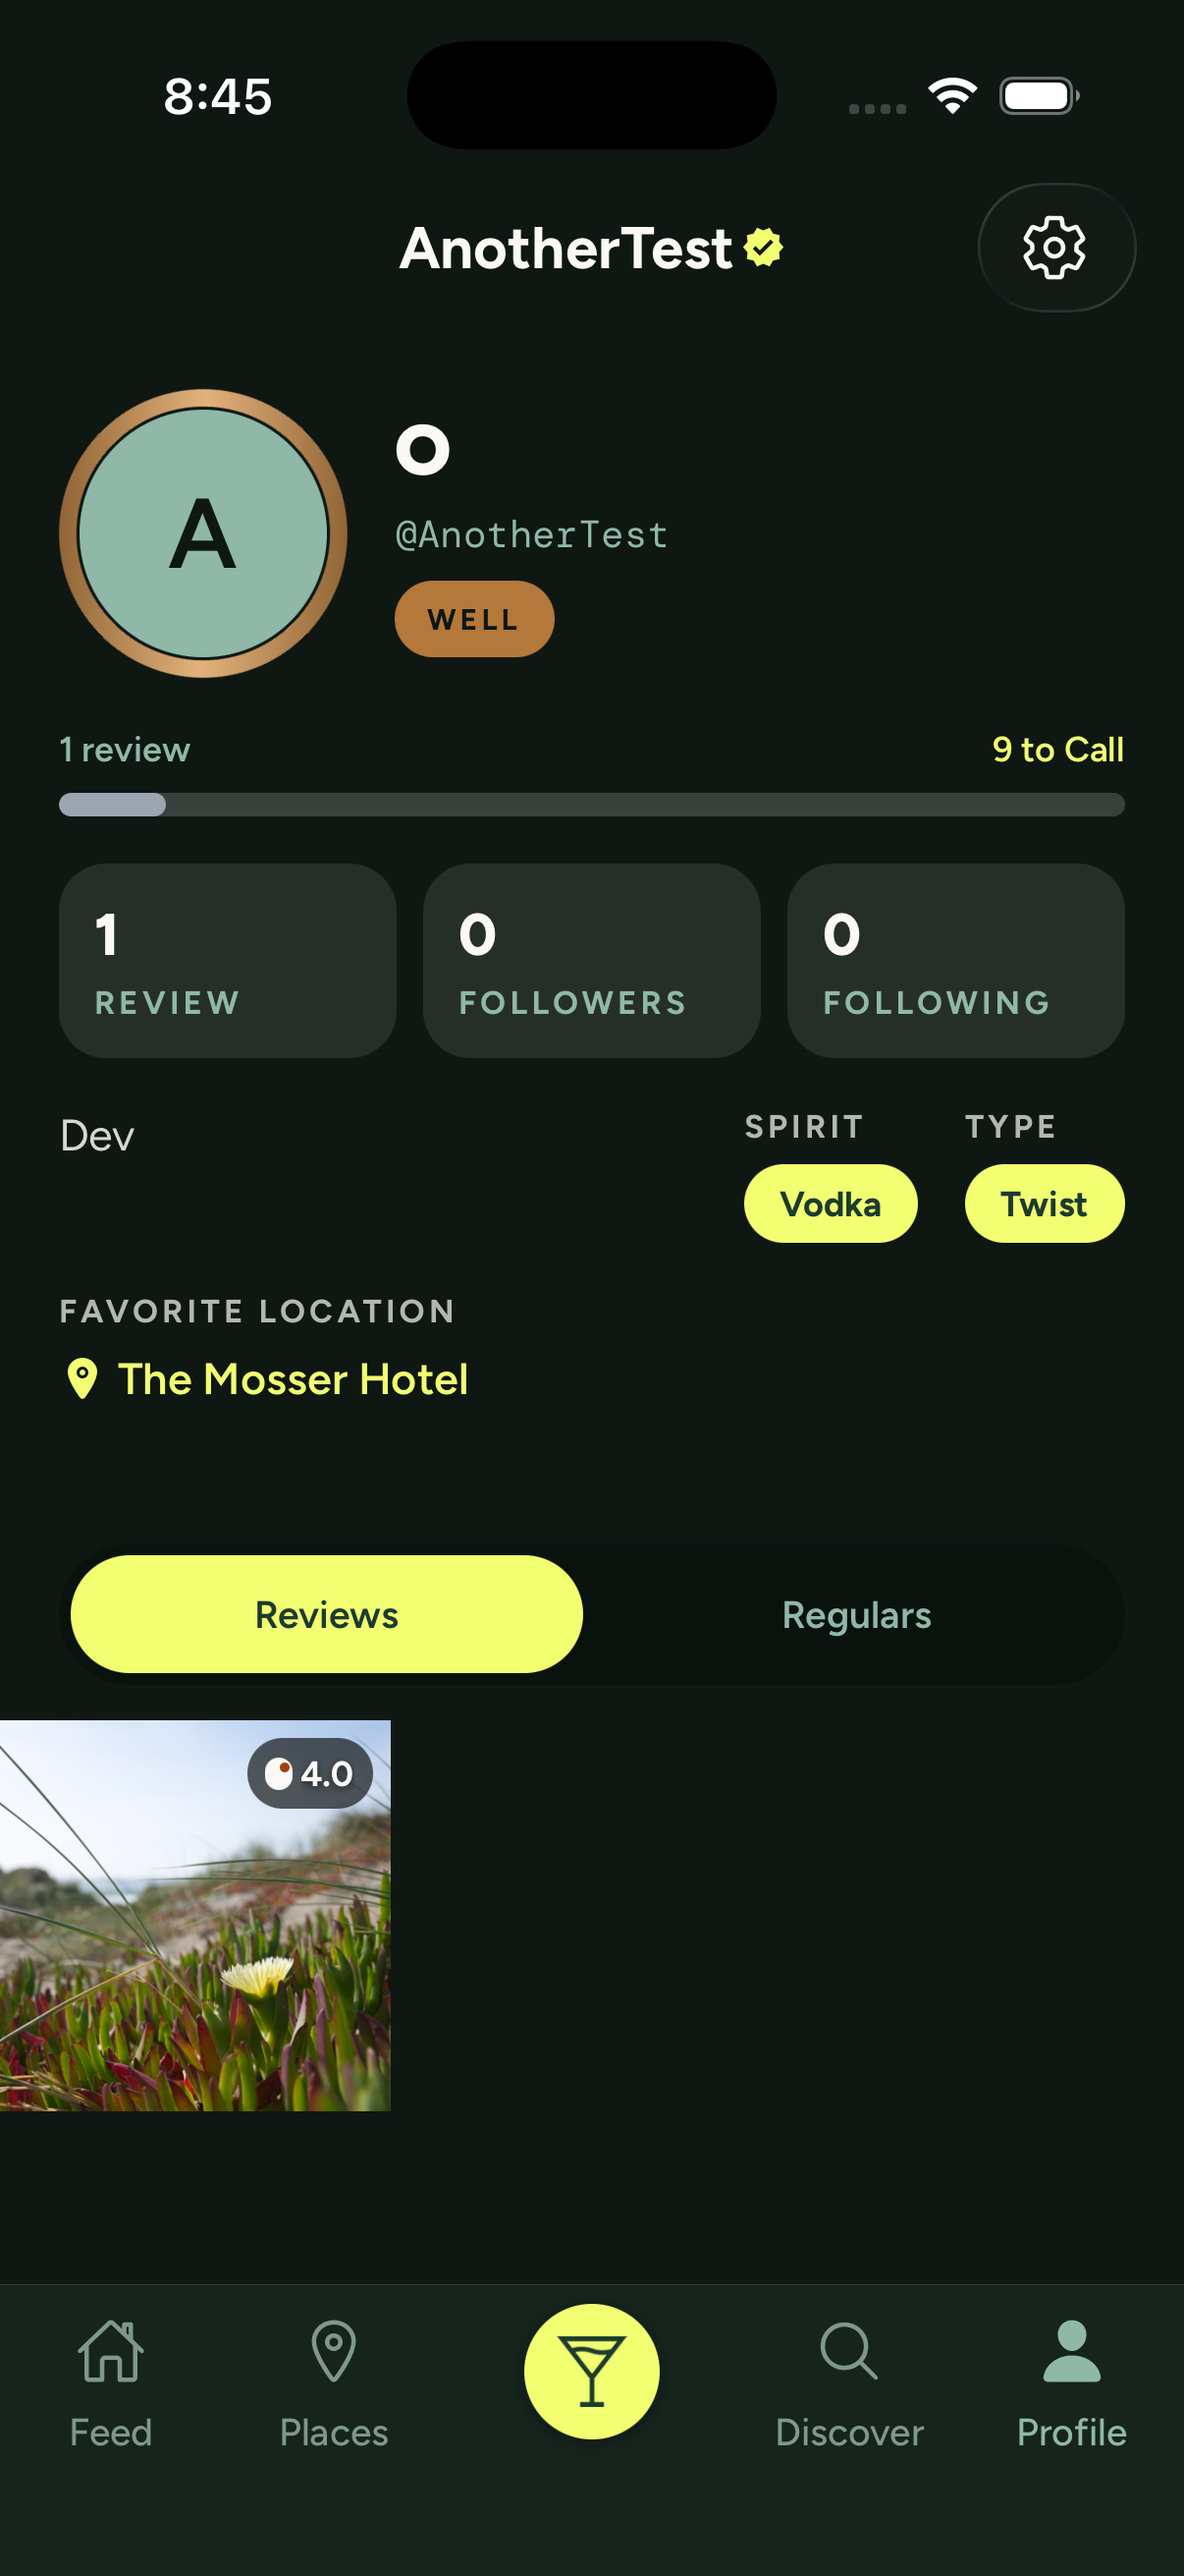
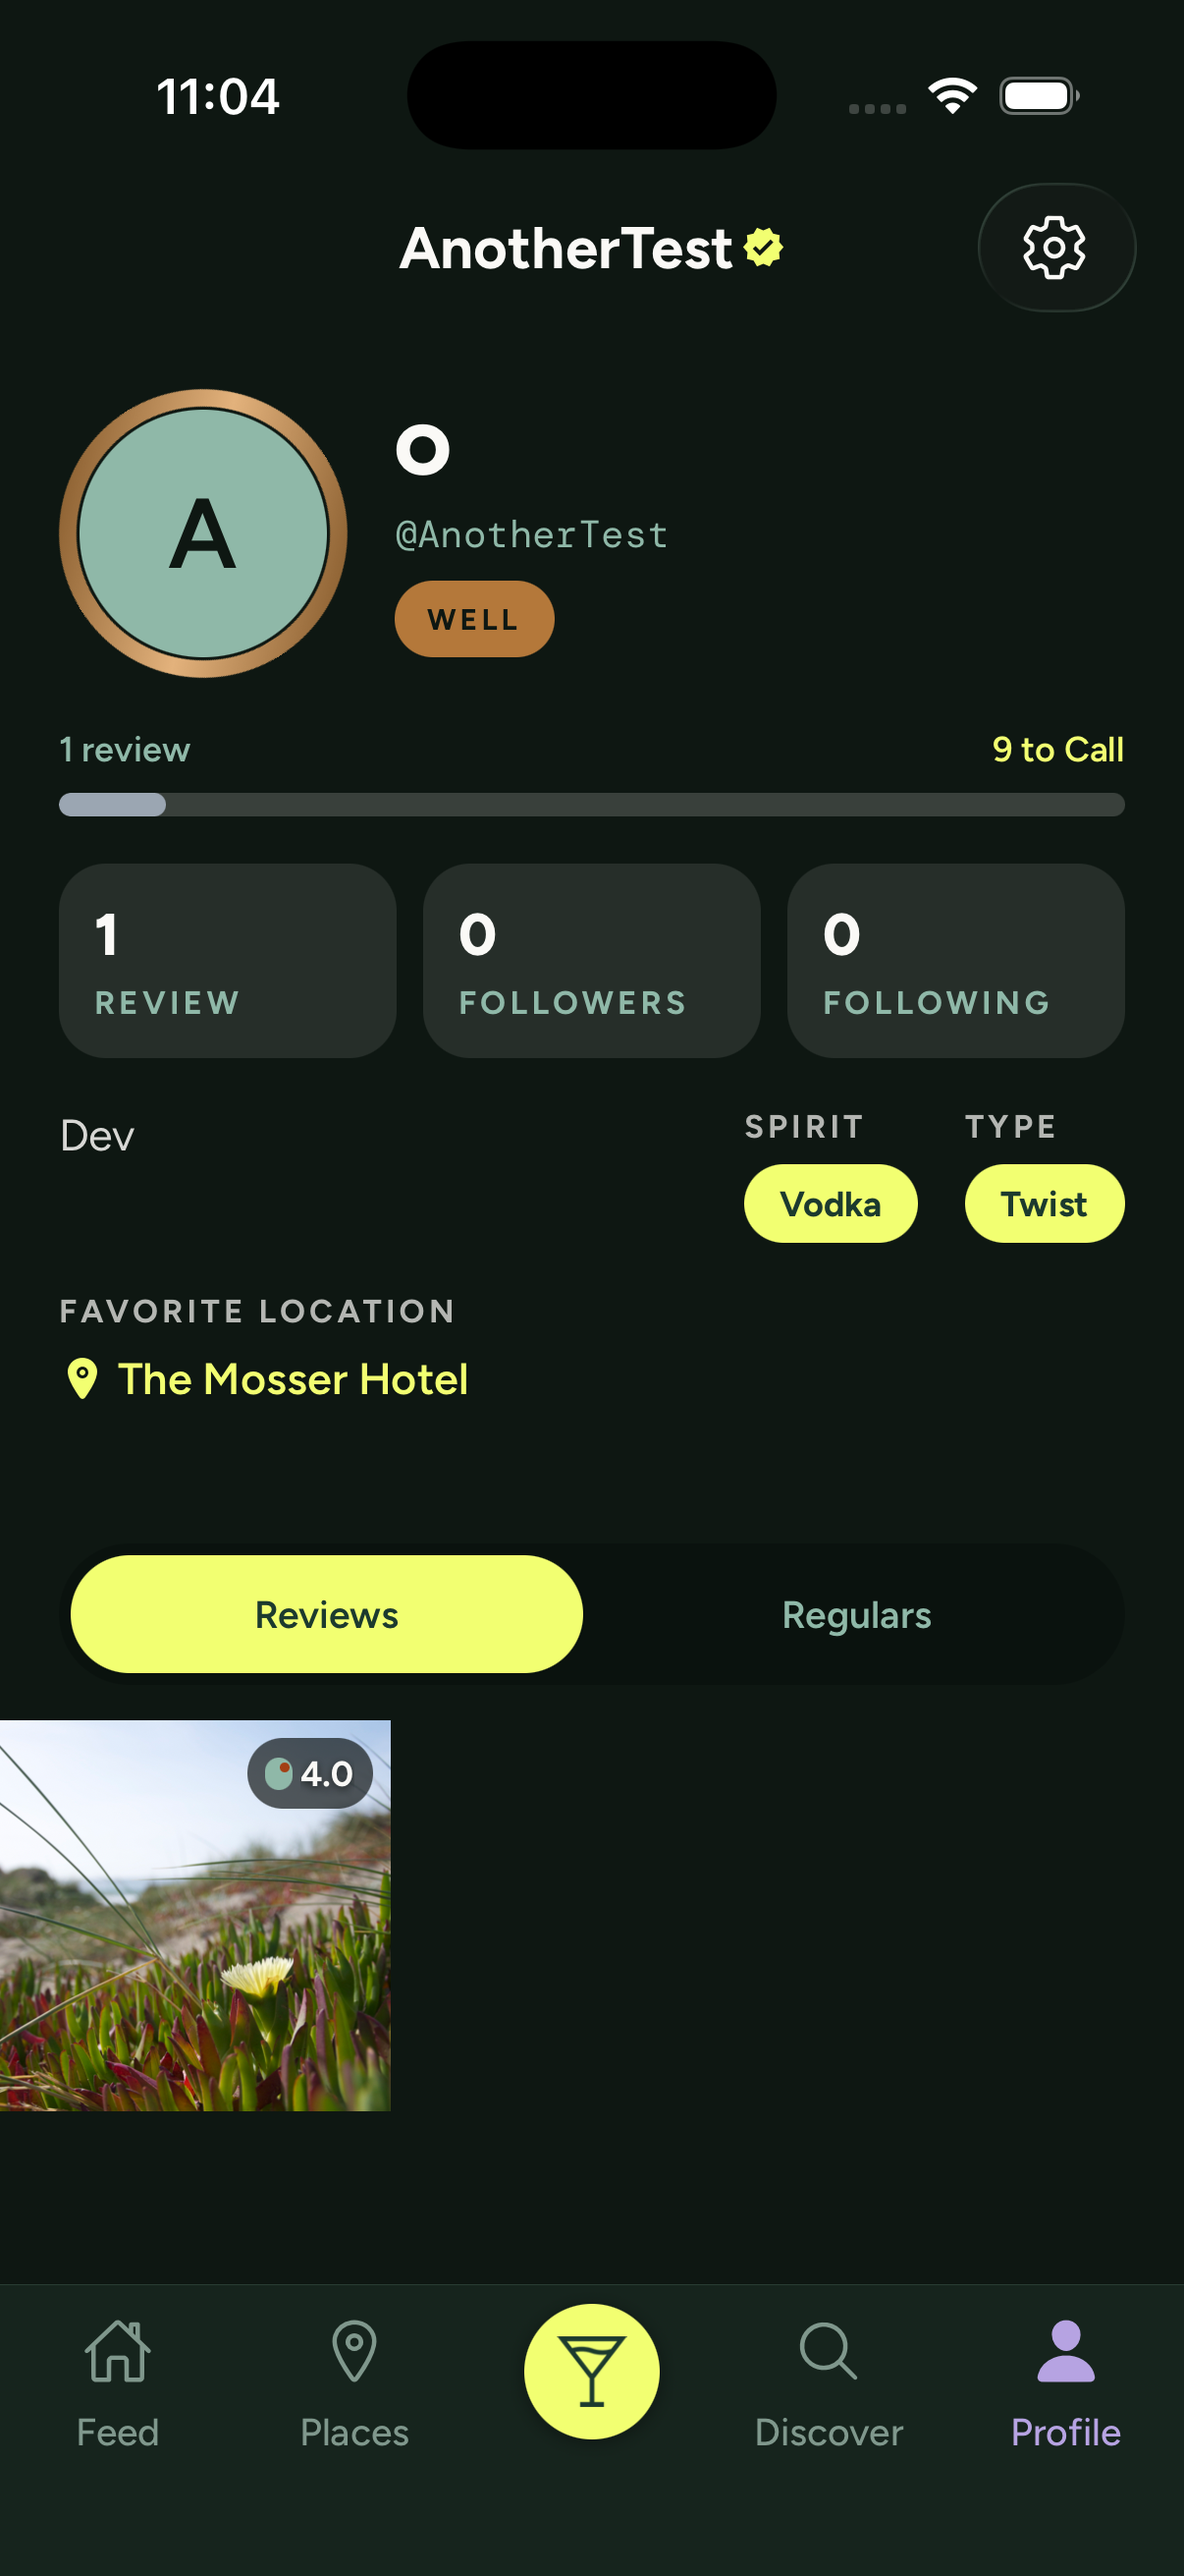
Re-shoot every screen and rewrite the notes for where the app is now
The captures predated the purple re-rank and the composer rebuild. Fourteen
fresh ones in both schemes, and NOTES.md covers all three design passes plus
the cleanup — including what the audit is still carrying.

diff --git a/docs/screens/after/NOTES.md b/docs/screens/after/NOTES.md
@@ -3,12 +3,59 @@
 Captures taken on iPhone 17 (iOS 26.5) against the development backend, on
 `new-design-system`. Light and dark for every screen the work touched.
 
-Two passes are recorded here:
+Three passes are recorded here, newest first.
 
-1. **The review's eight table items** (`templates/screen-fixes/REVIEW.md`).
-2. **The screens themselves** (`templates/app-screens/AppScreens.dc.html`),
-   which the first pass hadn't been measured against — that is where most of
-   what follows came from.
+---
+
+# Pass 3 — the brand's own colour order, and the composer
+
+## The palette is re-ranked — `e502977`
+
+**Purple is primary** (buttons, links, active states, the tab bar), green is
+the secondary that owns the club's ground surfaces, chartreuse is the loud
+third for CTAs on green, selected pills and the compose button. The design
+system's sheets rank these the other way round; `theme/tokens.ts` documents
+this as a deliberate departure rather than letting it read as drift.
+
+Four things stay green on purpose: the **olives** (a purple olive is not an
+olive), the verified marks, the avatar initials disc, and the selected
+chip/segment edge — a chartreuse fill carries green ink, so a purple border
+would put a third colour on one 34pt control.
+
+Light mode's interactive purple is **purple-700**, not the brand tint: raw
+#B6A3E2 is 2.06:1 on white. Dark mode uses the tint, which clears 7:1 on the
+dark ground.
+
+## The composer is one page — `0324a84`
+
+The five-step wizard is gone. Photo with a Retake chip, a Where row, Spirit
+and Type cards, the purple taste block, the presentation block on paper, the
+caption — with Cancel and Post in the bar. Picking a bar, spirit or type
+opens a page sheet over the page, so you return to the row you tapped. Post
+names what's still missing instead of sitting greyed out.
+
+The presentation block takes the paper tone so the screen carries one purple
+surface, not two.
+
+**Captures:** `07-composer-*`.
+
+## The rest
+
+- **Overall, not TTC** — jargon on the one number a member reads first.
+- **A greeting for each day** (`utils/tiniTime.ts`), in the club's voice, with
+  a test pinning the rules: second person, fragments, one emoji at the end.
+- **City and country** wherever a location appears — "North Vancouver, Canada"
+  rather than a region code only locals read. A venue only shows its country
+  if the stored address has one; rows saved before this show the city alone
+  until they're re-resolved.
+- **The review card** carries the venue's own score (a plate top-left with its
+  overall and review count, kept apart from the review's two scores) and the
+  venue chip carries the name over its city.
+- **The venue hero** lost its sticker and is 148pt, so the aggregates are on
+  screen with the name. The "Rate the martini here" CTA came out.
+- **Follow moved into the profile block.** iOS 26 wraps adjacent header items
+  in one grey glass capsule, so a chartreuse button in the nav bar read as
+  disabled chrome — the review flagged exactly this.
 
 ---
 
@@ -16,141 +63,101 @@ Two passes are recorded here:
 
 ## Feed card — `2560f38`
 
-**Files:** `components/ReviewItem.tsx`
+The card was still the pre-system layout, with every score stacked on the
+photo under a scrim. As drawn: a 46pt ringed avatar, the handle, a mono
+timestamp, the tier badge; a photo carrying only the venue on a `scrimStrong`
+plate and the spirit/type pills; **taste and presentation as olives** below it
+under eyebrow labels with the blended score beside them; the caption; the
+actions under a hairline.
 
-The card was still the pre-system layout: every score stacked on the photo
-under a scrim. As drawn, it is now
-
-- a 46pt ringed avatar, the handle, a **mono timestamp**, the tier badge, then
-  the overflow control;
-- a photo carrying **only** the venue on a `scrimStrong` plate (bottom-left)
-  and the spirit/type pills — chartreuse and scrim — bottom-right;
-- **taste and presentation as olives** below the photo under eyebrow labels,
-  with the blended TTC numeral at the right;
-- the caption, then the actions under a hairline at the foot.
-
-The two axes had been drawn as *bars*, which is the place aggregate's
-treatment. A review is olives. This is the single biggest correction in the
-pass.
-
-The photo takes the drawn **16:11**, not the 4:3 of pass-1 item 3 — with the
-scores now below the image, 16:11 is what keeps like/comment/share above the
-tab bar. The eye toggle went with the overlay it existed to hide.
-
-**Captures:** `01-feed-*`, `08-composer-preview-light` (same card, composer).
+Bars were the place aggregate's treatment. A review is olives. The photo takes
+the drawn 16:11, which is what keeps the actions above the tab bar now that
+the scores sit below the image.
 
 ## Place detail — `b8c50e7`
 
-**Files:** `components/Location.tsx`, `components/ReviewGrid.tsx` (reused)
-
-- The aggregates are a **soft-square green card inset on paper**, not a
-  full-bleed band. That is the screen's one flat-colour block.
-- A primary **"Rate the martini here"** under it, as drawn.
-- Reviews are the **three-up grid** the profile uses, under a section header —
-  your call, and it also matches how the rest of the app shows a body of work.
-- The header scrolls away with the grid instead of collapsing in place, which
-  retired the measured-height animation and its scroll-runway workaround. The
-  nav bar still picks up the venue name once the hero has gone.
-
-**Captures:** `07-bar-detail-*`.
+The aggregates are a soft-square green card inset on paper — the screen's one
+flat-colour block — and reviews are the same three-up grid the profile uses.
+The header scrolls away with the grid rather than collapsing in place.
 
 ## Profile — `278f437`
 
-**Files:** `components/ProfileHeader.tsx`, `components/ProfileContentTabs.tsx`,
-`components/shared/StatCard.tsx`, `components/shared/AppText.tsx`
+84pt avatar beside the name, the handle in mono, the tier as a badge in that
+tier's own colour; a full-width progress bar labelled at both ends; the three
+stats as tiles across the width. The content tabs became the system's pill
+segmented control, and Regulars is plural.
 
-Reviews / followers / following looked nothing like the drawing because the
-whole header was arranged differently. Top to bottom now:
+## Places, Discover, tab bar — `08d2ee3`, `a2a7d2a`
 
-- 84pt avatar beside the name (24/900), the **handle in mono**, and the tier
-  as a badge **in that tier's own colour**;
-- a **full-width progress bar labelled at both ends** — "1 review" / "9 to
-  Call" — replacing the unlabelled 4px sliver under the avatar;
-- the three stats as **tiles across the full width**, values in metric and
-  labels as sage eyebrows.
-
-The content tabs became the system's **pill segmented control** (they were
-underlined tabs, which is a different system's idea), and the Regulars tab is
-finally plural.
-
-**Captures:** `04-profile-*`.
-
-## Places and Discover headers — `08d2ee3`
-
-**Files:** `app/(tabs)/(places)/places.tsx`, `components/DiscoverTabs.tsx`,
-`components/map/search.tsx`
-
-Places opened straight onto a full-bleed map — no name, no search, pins under
-the status bar. Discover had a segmented control and never said what screen it
-was. Both now carry the drawn green header: the screen's name in the lowercase
-display cut, search beneath. Places mounts `components/map/search.tsx`, which
-was already written and imported by nothing.
-
-**Captures:** `05-places-*`, `02-discover-places-*`, `03-discover-profiles-*`.
-
-## Tab bar and Discover rows — `a2a7d2a`
-
-**Files:** `components/CustomTabBar.tsx`, `components/DiscoverTabs.tsx`
-
-The centre tab is the drawn **chartreuse circle**, raised proud of the bar.
-Discover's rows take the drawn line: larger avatar, and one mono line carrying
-the data — "1 review · Well", **pluralised** (pass-1 §6) and with the tier
-named. Place rows show olives and the aggregate inline instead of a second
-score column competing with the name.
-
-## Type fixes — `7971e36`, `e2b2970`, `ba5ad32`
-
-- **The aggregate numeral was clipped at the top.** Leading below the point
-  size doesn't tighten type in React Native, it crops the line box. Leading
-  now matches the point size; the tightness comes from negative margin. Same
-  fix on the venue name.
-- The sticker's curved text is sized to the arc, so "North Vancouver" fits.
+Both tab roots gained the drawn green header — the screen's name in the
+lowercase display cut with search beneath. Places mounts the place search that
+was already written and imported by nothing. The centre tab is the raised
+chartreuse compose button, and Discover's rows carry one mono data line with
+the counts correctly plural.
 
 ---
 
 # Pass 1 — the review's table
 
-| Commit | Item | Files |
-|---|---|---|
-| `9c82ceb` | 1 — segment contrast | `DiscoverTabs.tsx` |
-| `a23d80c` | 2 — rank preview behind a long-press | `profile.tsx`, `ProfileHeader.tsx` |
-| `8bcf9ee` | 3 — feed photo aspect | `ReviewItem.tsx` (since superseded by 16:11) |
-| `d21c3b9` | 4 — meter fill | `theme/tokens.ts`, `RatingSummary.tsx` |
-| `29833fa` | 5 — header restack | `RatingSummary.tsx`, `Regulars.tsx`, `Avatar.tsx`, `Location.tsx`, `locationDetails.tsx` |
-| `1b6ea02` | 6 — typographic hero | `Location.tsx`, `StickerBadge.tsx` |
-| `8a15f34` | 7 — name normalisation | `utils/venueName.ts`, `placesService.ts` |
-| `03636eb` | 8 — disabled button | `Button.tsx`, `review.tsx` |
+| Commit | Item |
+|---|---|
+| `9c82ceb` | 1 — segment contrast |
+| `a23d80c` | 2 — rank preview behind a long-press |
+| `8bcf9ee` | 3 — feed photo aspect (since superseded by 16:11) |
+| `d21c3b9` | 4 — meter fill |
+| `29833fa` | 5 — header restack |
+| `1b6ea02` | 6 — typographic hero |
+| `8a15f34` | 7 — name normalisation |
+| `03636eb` | 8 — disabled button |
 
-Both halves of the Discover segment take the selected Chip's chartreuse fill,
-2px green border and green ink; the meter is `ratingFillOnInk` (chartreuse) on
-green and photo scrims and the pimento on paper; the venue header stacks
-full-width rows so "Presentation" can't truncate; venue names are title-cased
-at the Places boundary with `raw_name` kept for search; disabled controls take
-`disabledSurface` + `disabledText` and state their reason.
+The meter is `ratingFillOnInk` (chartreuse) on green and photo scrims and the
+pimento on paper; the venue header stacks full-width rows so "Presentation"
+can't truncate; venue names are title-cased at the Places boundary with
+`raw_name` kept for search; disabled controls take `disabledSurface` +
+`disabledText` and state their reason.
 
 ---
 
-## Flagged
+# The cleanup pass
 
-- **The white circle on the profile is data, not a bug.** Pass-1 §6 called it a
-  "bio glyph"; it is the member's own `name` field, which contains a
-  white-circle character. Nothing to fix in the app.
-- **Upload-side cropping still isn't done.** The composer stores the capture
-  uncropped and the card centre-crops on display, which covers old and new
-  uploads identically.
-- **The map sheet has no Regulars.** Dropping the rail there is what the
-  screen-fixes drawing says, but it removed a feature rather than relaying it.
-- **Not built:** the place page's Reviews / Info segmented control (the info
-  screen already has a nav button), the Places screen's filter icon and chip
-  row (no filter feature exists to wire them to), and review item 5's
-  `scrimStrong` plate — which the feed card's rebuild makes moot, since no
-  copy sits on the photo any more except the two chips, both of which carry
-  their own plate.
-- **The composer is still a five-step wizard**, where the design draws one
-  page. That is a product decision older than this pass; the purple taste
-  block and paper presentation block inside it do follow the system.
+An audit of the whole app followed the redesign. What it found, and what was
+done about it:
+
+- **Blocking was implemented twice** (`f81409e`), and the app used the copy
+  that skipped the cache invalidation — so the person you just blocked kept
+  appearing in your feed until the 15-minute cache expired. Both blocking and
+  reporting now go through the service that owns those caches.
+- **Sign-out cleared one cache of three** (`2328af3`). A second account on the
+  same device could be served the previous member's feed pages, profiles,
+  blocked list and avatar URLs. `clearUserCaches()` empties all three.
+- **The two profile screens each had their own body** (`76f9b93`), and the
+  copies had drifted: the own-profile one never wired comment handling up, so
+  opening one of your own reviews gave you a comment button that did nothing.
+- **~1,500 lines of dead code** (`ca95026`): RatingSummary went 828 → 282 (two
+  variants and 14 props nothing rendered), plus EmptyState, ListRow,
+  MetricRow, RatingSlider, StickerBadge, blockUtils and Regulars' dense
+  column.
+- **The core state was untyped** (`57a9ebd`). profile-context is .tsx now, and
+  typing it caught a missing null guard on the composer's upload path.
+  avatar-refresh-context went too — it wrapped the whole tab tree with no
+  consumers.
+- **`withRegulars()`** (`ba0808f`) replaces the same map-and-merge written out
+  at four call sites.
+
+## Still outstanding
+
+- **`AppText` is used by nobody who needs it** — 54 raw `<Text>` across the
+  four big screens, which is what the ~110 raw-`fontSize` lint warnings
+  actually are. A mass rewrite is higher risk than value right now.
+- **14 `react-hooks/exhaustive-deps` warnings**, several on the feed's
+  loaders. These want fixing one at a time — adding a dep to the wrong effect
+  turns a stale read into a loop.
+- **`@react-native-picker/picker`** is unused but autolinked, so removing it
+  needs a dev-client rebuild.
+- **`CODEBASE_AUDIT.md` and `NAVIGATION_PLAN.md`** both describe finished work
+  and read as current.
 
 ## Checks
 
-`npm test` — 197 passed, 15 suites. `npx tsc --noEmit` — clean. `npx eslint` on
-the touched files — 0 errors.
+`npm test` — 204 passed, 17 suites. `npx tsc --noEmit` — clean. `npx eslint`
+over app/components/utils/services/hooks/theme/context — 0 errors.
